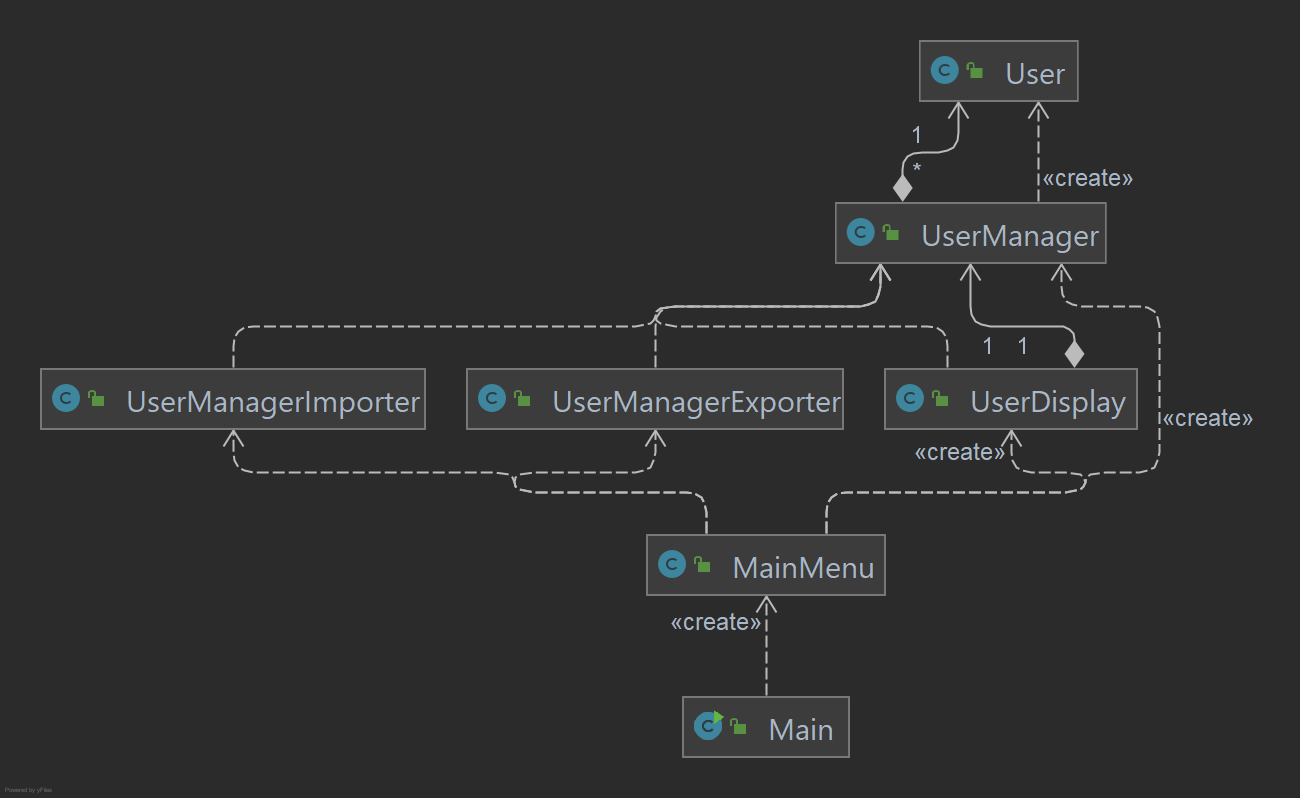
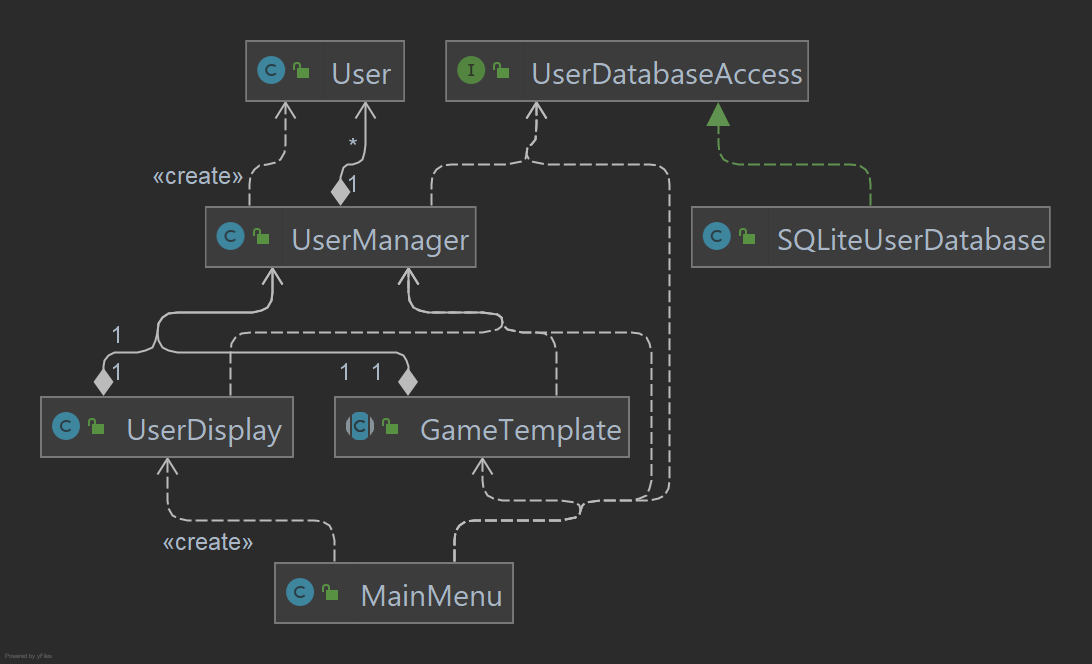
Improve phase2 design document with new UMLs and text

diff --git a/phase2/design_document.md b/phase2/design_document.md
@@ -24,11 +24,11 @@
 
 
 
-## Game Rules
+### Game Rules
 
 (Sourced from [Bicycle Cards](https://bicyclecards.com/rules/) and [Pagat.com](https://www.pagat.com/aceten/bura.html) with minor modifications)
 
-### Crazy Eights
+#### Crazy Eights
 
 * 2+ players, 52 cards
 * Start:
@@ -46,7 +46,7 @@
 * Win condition:
   * Player with no cards left wins
 
-### War
+#### War
 
 * 2 players, 52 cards
 * Start: 
@@ -63,7 +63,7 @@
 * Win condition: 
   * Player who has all the cards
 
-### Go Fish
+#### Go Fish
 
 * 2+ players, 52 cards
 * Start:
@@ -84,7 +84,8 @@
   * the game ends when all thirteen suits have been won
   * the winner is the player with the most set of cards
 
-### Bura
+#### Bura
+
 * 2+ players, 36 card (4 suits; ranks A, 6-K)
 * Start:
   * (Modified) Cards are dealt out singly until each player has one card
@@ -131,14 +132,14 @@ These 3 systems are:
 #### GUI IO Flow
 
 In order to adhere to the SOLID principles, especially dependency inversion, we created the following system for
-creating the GUI. First, each game specifies an IO interface following the naming convention of $GAMENAME$IO so for
-example, the game of Crazy Eights specifies an interface called CrazyEightsIO. By doing this, we are able to decouple
+creating the GUI. First, each game specifies an IO interface following the naming convention of `$GAMENAME$IO` so for
+example, the game of Crazy Eights specifies an interface called `CrazyEightsIO`. By doing this, we are able to decouple
 the games from the finer details of how the game will interact with the user, thus following clean architecture as well
-as the SOLID principles. Each of these interfaces extends a master interface called GameIO.
+as the SOLID principles. Each of these interfaces extends a master interface called `GameIO`.
 
 These interfaces are implemented by the subclasses of a class called GUI, which includes a lot of boilerplate code that
 is needed to get the graphics working in the first place. Implementations for the previously discussed interfaces follow
-the naming convention of $GAMENAME$GUI, e.g. the GUI implementation for Crazy Eights is called CrazyEightsGUI.
+the naming convention of `$GAMENAME$GUI`, e.g. the GUI implementation for Crazy Eights is called `CrazyEightsGUI`.
 
 Finally, we use a factory method to create the proper objects and pass them to the game. As can be seen in this UML
 Diagram:
@@ -172,27 +173,21 @@ this system activates. The requests from `MainMenu` and `UserDisplay` are proces
 user statistics to be retrieved/modified. These allow us to interact with and create new instances
 of our custom entity class `User`, and use them to play games with. 
 
-Serialization of users are done through the `UserDatabaseAccess` interface. This interface defines methods and exceptions used to communicate with any 
+Serialization of users is done through the `UserDatabaseAccess` interface. This interface defines methods and exceptions used to communicate with any 
 type of user database gateway. Currently, an SQLite database is used to serialize user data, but having a `UserDatabaseAccess` interface allows
-database implementations to be swapped at will. One example of this is in the test classes for 
+database implementations to be swapped at will in the main method. One example of this is in the test classes for 
 [`UserManager`](https://github.com/CSC207-UofT/course-project-the-losers-club/blob/main/src/test/java/usecases/UserManagerTest.java). A fake database is used
 to simulate the storage of user information for the purposes of testing.
 
-<img src="UMLs/User_Flow.png" width=600>
+<img src="UMLs/User_Flow.png" width=500>
+
+
 
 #### Violations Of Clean Architecture
 
-As a whole, our code has few violations of clean architecture. Our biggest violation comes from the fact that because of
-the implementation of our GUI, the games using it (as of now we've only implemented `CrazyEights` to work with the GUI) are
-dependent on it. This violates clean architecture, as changes in the GUI system will have to be reflected in `CrazyEights`.
-However, this violation is due to the fact that GUI systems have only started to be integrated. We are currently looking 
-in to creating some sort of façade class to allow for communication between the systems, or possibly changing the interfaces
-themselves. This issue is also touched on in the Major Design Decisions paragraph. 
+Compared to Phase 1, we've resolved our violations of clean architecture by carefully designing our GUI implementations and boundary crosses. Previously, `CrazyEights` directly depended on a GUI implementation, but that has since been refactored to our `GameIO` interface structure described above.
 
-The other potential violation of clean architecture present in our code is the fact that the entity classes `Deck` and `Hand`
-depend on the entity class `Card`. However, we are unsure if this violates clean architecture, and if so how to remedy it. 
-Since `Hand`s and `Deck`s are made up of `Card`s, it makes sense for them to be dependent, but if this is found to be against
-clean architecture then other solutions will be found.
+Due to the refactoring and other code improvements done between phase 1 and phase 2, we feel as though there are no major violations of clean architecture. 
 
 
 
@@ -200,21 +195,22 @@ clean architecture then other solutions will be found.
 ## SOLID Design Principles.
 
 * Single Responsibility
-  * The console input interface (`presenters.console.Input`) only does one thing&mdash;retrieve input from the user through the console. It retrieves input from the user, parses does very basic input validation ("10S" is a valid card string whereas "404W" is not), and then returns primitive representation of the desired input (for example the `String` "S10" to represent the 10 of spades).
+  * The `SQLiteUserDatabase` only does one thing&mdash;connect with an SQLite database and query it. All database queries go through this class, and is the only class in our program that contains SQL. The users of this class do not need to know how the SQLite connection works, but can simply call methods to gather the required information.
 * Open/Closed
   * The `GameTemplate` class defines common operations that are required between all games, such as the logic required for `User` management (adding wins, adding games played, etc.). New subclasses of `GameTemplate` will not need to change this code, but can depend on said code doing the right thing.
 * Liskov's Substitution
-  * All subclasses of `GameTemplate`, such as `CrazyEights`, all have common functionality like the `startGame()` entry method, or the `getMaxPlayers()` method. This means the `GameSelector` can depend on these methods existing and working correctly regardless of what subclass of `GameTemplate` is actually being used.
+  * All subclasses of `GameTemplate`, such as `CrazyEights`, all have common functionality like the `startGame()` entry method, or the `getMaxPlayers()` method. This means the `MainMenu` can depend on these methods existing and working correctly regardless of what subclass of `GameTemplate` is actually being used. In other words, substituting subclasses of `GameTemplate` does not change the behaviour of the game creation and run flow. 
+  * This also means that extending our program with new games is simple. By subclassing `GameTemplate` and adding it to the game creation factory, new games can be added with no changes to `MainMenu`.
 * Interface Segregation
-  * Rather than have one main input/output interface for both the `GameSelector` and each individual game, interfaces were separated allowing implementations to choose which interfaces to implement.
+  * Each game defines its own extension of the `GameIO` interface, and defines what input and output methods it requires. Then, the actual GUI implementation must implement this interface to support the game. Separating these interfaces means individual GUI implementations do not need to support methods and actions that are not needed by the actual game.
 * Dependency Inversion
-  * Each game (subclasses of `GameTemplate`) must depend on an interface between the game and the user running the code. An interface was used to specify the ways a user could interact with the game, and the subclasses of `GameTemplate` only depended on there being given some implementation of the interface, but did not directly depend on the implementation.
+  * `UserManager` depends on connecting to a database to serialize users. To avoid a dependency rule violation, the interface `UserDatabaseAccess` is defined. Then, `SQLiteUserDatabase` simply implements this interface. To then inject the depenency, an instance of `SQLiteUserDatabase` is instantiated in `Main` and passed into the `UserManager` to store. Defining an interface this way also allows different implementations of databases to be used; it would be very easy to switch to another relational databases like MySQL.
 
 
 
 ## Packaging Strategy
 
-We primarily considered the packaging by component and the packaging by layer strategies. We decided on the packaging by layer strategy to make our layers more clear and make it easy to tell whether the dependency rule is violated. However, as our project expands in scope, it might be worth reconsidering our use of packaging by layer since each of the packages have low cohesion.
+We primarily considered the packaging by component and the packaging by layer strategies. We decided on the packaging by layer strategy to make our layers more clear and make it easy to tell whether the dependency rule is violated. However, since our project has expanded in scope, we've begun introducing subpackages to further divide our code. For example, a `usecases.usermanagement` subpackage is used for the user related classes.
 
 
 
@@ -222,9 +218,9 @@ We primarily considered the packaging by component and the packaging by layer st
 ## Design Patterns
 
 * Factory Method
-  * `GameTemplate.gameFactory()` is used to create the various games. When games are added/removed from the pool of available games, `GameTemplate` must be changed, but not the menu implementation in `GameSelector`. `GameSelector` remains independent of the actual available games.
+  * `GameTemplate.gameFactory()` is used to create the various games. When games are added/removed from the pool of available games, `GameTemplate` must be changed, but not the menu implementation in `MainMenu`. This means `MainMenu` remains independent of the actual available games.
 * Dependency Inversion
-  * `GameTemplate` and `GameSelector` define input and output interfaces. These classes have parameters in their constructors for implementations of these interfaces. This allows classes in the layers above them to choose which implementation they wish to use. Additionally, having these interfaces defined means testing is much easier. For example, in `GoFishTest`, a class that emulates the behaviour of a user is used to test the `GoFish` game functionality.
+  * As described above, the games define input and output interfaces. This allows classes in the layers above them to choose which implementation they wish to use through dependency injection. Additionally, having these interfaces defined means testing is much easier. For example, in `GoFishTest`, a class that emulates the behaviour of a user by implementing `GoFishIO` is used to test the `GoFish` game functionality.
 
 
 
@@ -245,7 +241,7 @@ We primarily considered the packaging by component and the packaging by layer st
 ### Significant PRs
 
 * Raymond: 
-  * [Added `MainMenu` controller](https://github.com/CSC207-UofT/course-project-the-losers-club/pull/52)
+  * [Added the `MainMenu` controller](https://github.com/CSC207-UofT/course-project-the-losers-club/pull/52)
     * This PR defined the controller layer allowing us to switch between games and handle user serialization. It moved our project away from a single game into a more developed collection of games.
   * [Migrated `User` serialization to SQLite](https://github.com/CSC207-UofT/course-project-the-losers-club/pull/101)
     * This PR included a more clean implementation of user serialization which defines interfaces and allows for future expansion. This new design allows different SQL databases to be used, which consequently allows for different statistics to be tracked through a more sophisticated database structure.
@@ -292,7 +288,7 @@ For each Principle of Universal Design, write 2-5 sentences or point form notes 
    * Whenever a player selects an invalid card or performs an action that is invalid, a message is sent to the user to try again.
 6. Low Physical Effort
    * Each game requires very little effort to play, requiring user's to read simple instructions and click a few buttons.
-   * There are some repetitive actions as games occasionally take a long time to finish but there is nothing we could do about that.
+   * There are some repetitive actions as games occasionally take a long time to finish, so if we had more time we could have implemented a fast-forward action.
 7. Size and Space for Approach and Use
    * Using our program requires local interaction with a computer which allows for a clean light of sight to those that are standing or seated and additionally allows for space for a user, as they can set up the computer however they wish.
    * By the same reasoning, the user(s) have the flexibility to allow themselves to have enough room to reach their computer
